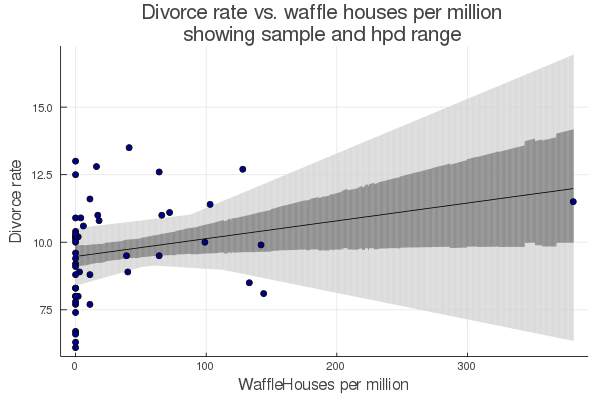
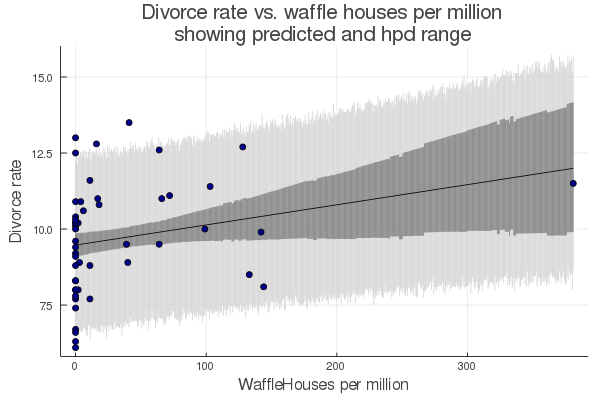
Rel 2.1.6 - plotcoef, pairsplot and plotbounds

diff --git a/docs/src/index.md b/docs/src/index.md
@@ -34,6 +34,37 @@ sample(rng::AbstractRNG, df::DataFrame, n; replace=true, ordered=false)
 hpdi(x::Vector{T}; alpha::Real=0.05) where {T<:Real}
 ```
 
+##`plotcoef`
+```@docs
+plotcoef(models::Vector{SampleModel}, pars::Vector{Symbol}, fig::AbstractString, 
+  title="", func=nothing)
+plotcoef(model::SampleModel, pars::Vector{Symbol}, fig::AbstractString, 
+  title="", func=nothing)```
+
+##`pairsplot`
+```@docs
+pairsplot(df::DataFrame, vars::Vector{Symbol}, fig::AbstractString)
+```
+
+##`plotbounds`
+```@docs
+plotbounds(
+  df::DataFrame, 
+  xvar::Symbol,
+  yvar::Symbol, 
+  dfs::DataFrame, 
+  linkvars::Vector{Symbol};
+  fig::AbstractString="",
+  bounds::Vector{Symbol}=[:range, :hpdi],
+  title::AbstractString="",
+  xlab::AbstractString=String(xvar),
+  ylab::AbstractString=String(yvar),
+  alpha::Float64=0.11,
+  colors::Vector{Symbol}=[:lightgrey, :grey],
+  stepsize::Float64=0.01
+)
+```
+
 ##`convert_a3d`
 ```@docs
 convert_a3d(a3d_array, cnames, ::Val{:dataframe})
